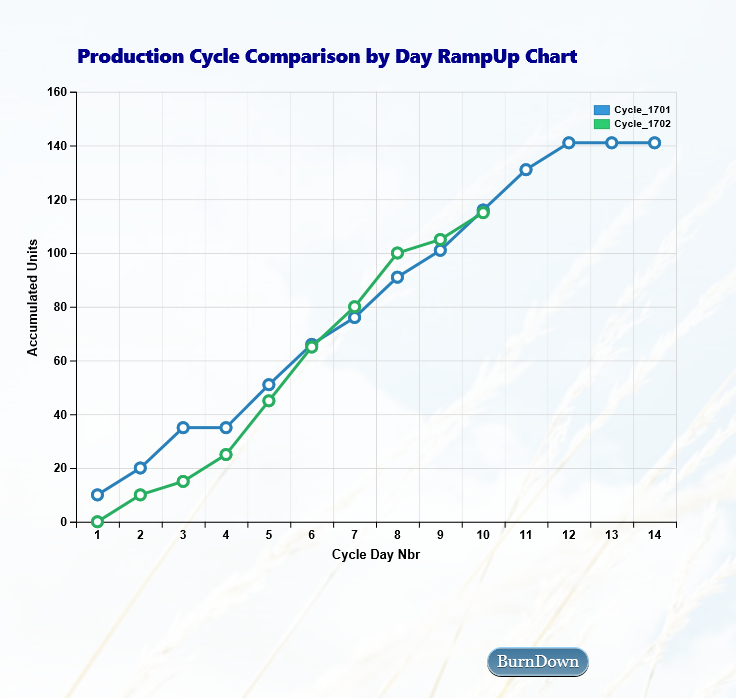
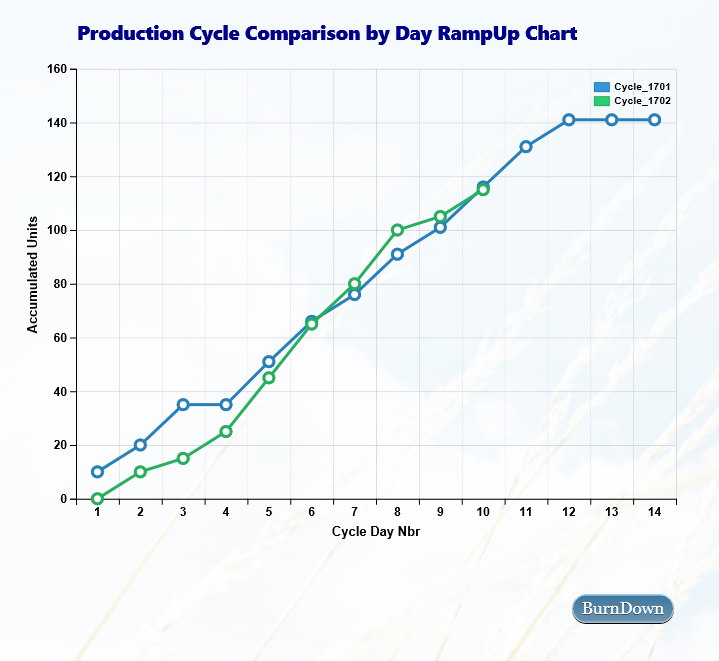
more minor changes

diff --git a/d3TestProductionCycleCompare.html b/d3TestProductionCycleCompare.html
@@ -23,7 +23,7 @@
 		#tblCommands{
 			position: relative;
 			top: 605px;
-			left: 500px;
+			left: 585px;
 		}
 		.dimple-custom-axis-title {
 			font-size: 1em !important;
